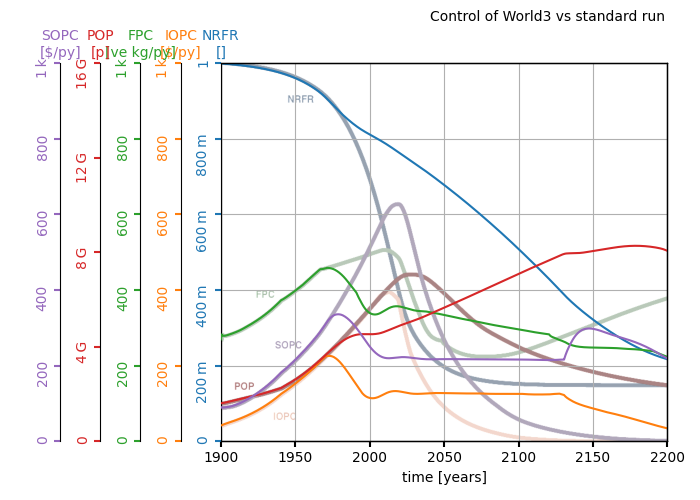
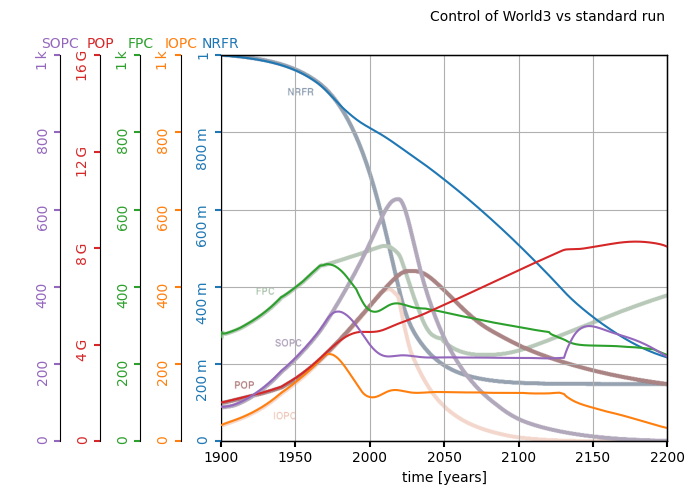
plottat tablh-funktioner för att använda i rapport och presentation

diff --git a/main.py b/main.py
@@ -7,8 +7,8 @@ from Pid_controller import Pid_controller
 
 
 def ifpc_control(t, world3, k):
-    # ifpc control with feedback value     
-    if t<=policy_year_f:
+    # ifpc control with feedback from FPC normalized with 400    
+    if t<=policy_year_fpc:
         return 1
     
     if not hasattr(ifpc_control, 'pid'):
@@ -22,9 +22,8 @@ def ifpc_control(t, world3, k):
 
 
 def isopc_control(t, world3, k):
-    # isopc control with feedback value     
-    
-    if t<=policy_year_so:
+    # isopc control with feedback from SOPC normalized with 400     
+    if t<=policy_year_sopc:
         return 1
 
     if not hasattr(isopc_control, 'pid'):
@@ -39,8 +38,8 @@ def isopc_control(t, world3, k):
 
 
 def fioac_control(t, world3, k):
-    # fioac control with feedback value being fioai
-    if t<=policy_year_io:
+    # fioac control with feedback from IOPC normalized with 400
+    if t<=policy_year_iopc:
         return 0.43
     
     if not hasattr(fioac_control, 'pid'):
@@ -54,24 +53,23 @@ def fioac_control(t, world3, k):
 
 
 
-def example6():
-    # Controlling IO with FIOAI as outer loop and FIOAA, FIOAS and FIOAC as inner loop.
-    global fioai_ref
+def main():
+    # Controlling POP with policy years and control signals FIOAC, IFPC and ISOPC
     global iopc_ref
     global sopc_ref
     global fpc_ref
-    global policy_year_io
-    global policy_year_f
-    global policy_year_so
+    global policy_year_iopc
+    global policy_year_fpc
+    global policy_year_sopc
 
-    policy_year_io = 1970
-    policy_year_f = 2120
-    policy_year_so = 2130
-    world3 = pyworld3.World3(year_max=2200) 
+    policy_year_iopc = 1970
+    policy_year_fpc = 2120
+    policy_year_sopc = 2130
     sopc_ref = 0.8
     iopc_ref = 0.3
     fpc_ref = 0.7
 
+    world3 = pyworld3.World3(year_max=2200) 
     world3.set_world3_control(fioac_control=fioac_control, isopc_control=isopc_control, ifpc_control=ifpc_control)                                   
     world3.init_world3_constants()                                 
     world3.init_world3_variables()                              
@@ -79,11 +77,11 @@ def example6():
     world3.set_world3_delay_functions()                             
     world3.run_world3()
 
-    
+    """
     plot_world_variables(
         world3.time,
         [world3.nrfr, world3.iopc, world3.fpc, world3.pop, world3.sopc],
-        ["NRFR\n[]", "IOPC\n[$/py]", "FPC\n[ve kg/py]", "POP\n[p]", "SOPC\n[$/py]"],
+        ["NRFR", "IOPC", "FPC", "POP", "SOPC"],
         [[0, 1], [0, 1e3], [0, 1e3], [0, 16e9], [0, 1e3]],
         figsize=(7, 5),
         img_background="./img/STD_2200_SOPC.png",
@@ -92,21 +90,67 @@ def example6():
         title="Control of World3 vs standard run",
     )
     plt.savefig("fig_STD_2200.png")
-    
+    """
+    """
+    plot_world_variables(
+        world3.time,
+        [world3.nrfr, world3.iopc, world3.pop],
+        ["NRFR", "IOPC", "POP"],
+        [[0, 1], [0, 1e3], [0, 16e9]],
+        figsize=(7, 5),
+        img_background="./img/NRFR_IOPC_POP_2500.png",
+        grid=1,
+        title="Population of controlled World3 vs standard run",
+    )
+    plt.savefig("fig_STD_2500.png")
+    """
+
+    fpc_ifpc = np.linspace(0, 3)
+    plt.figure("fioaa_f")
+    plt.plot(fpc_ifpc, world3.fioaa_f(fpc_ifpc))
+    plt.xlabel("FPC/IFPC")
+    plt.ylabel("FIOAA")
+    plt.savefig("fioaa_f.png")
+
+    sopc_isopc = np.linspace(0, 2.5)
+    plt.figure("fioas_f")
+    plt.plot(sopc_isopc, world3.fioas_f(sopc_isopc))
+    plt.xlabel("SOPC/ISOPC")
+    plt.ylabel("FIOAS")
+    plt.savefig("fioas_f.png")
+
+    fpc_sfpc = np.linspace(0,6)
+    plt.figure("lmf_f")
+    plt.plot(fpc_sfpc, world3.lmf_f(fpc_sfpc))
+    plt.xlabel("FPC/SFPC")
+    plt.ylabel("LMF")
+    plt.savefig("lmf_f.png")
+
+    sopc = np.linspace(0, 2100)
+    plt.figure("hsapc_f")
+    plt.plot(sopc, world3.hsapc_f(sopc))
+    plt.xlabel("SOPC")
+    plt.ylabel("HSAPC")
+    plt.savefig("hsapc_f.png")
+
+    iopc = np.linspace(0, 1700)
+    plt.figure("cmi_f")
+    plt.plot(iopc, world3.cmi_f(iopc))
+    plt.xlabel("IOPC")
+    plt.ylabel("CMI")
+    plt.savefig("cmi_f.png")
+
 
     
 
+    
+    
     
     
 
 
 
 if __name__ == "__main__":
-    #example1()
-    #example2()
-    #example3()
-    #example4()
-    #example5()
-    example6()
+    main()
 
 
